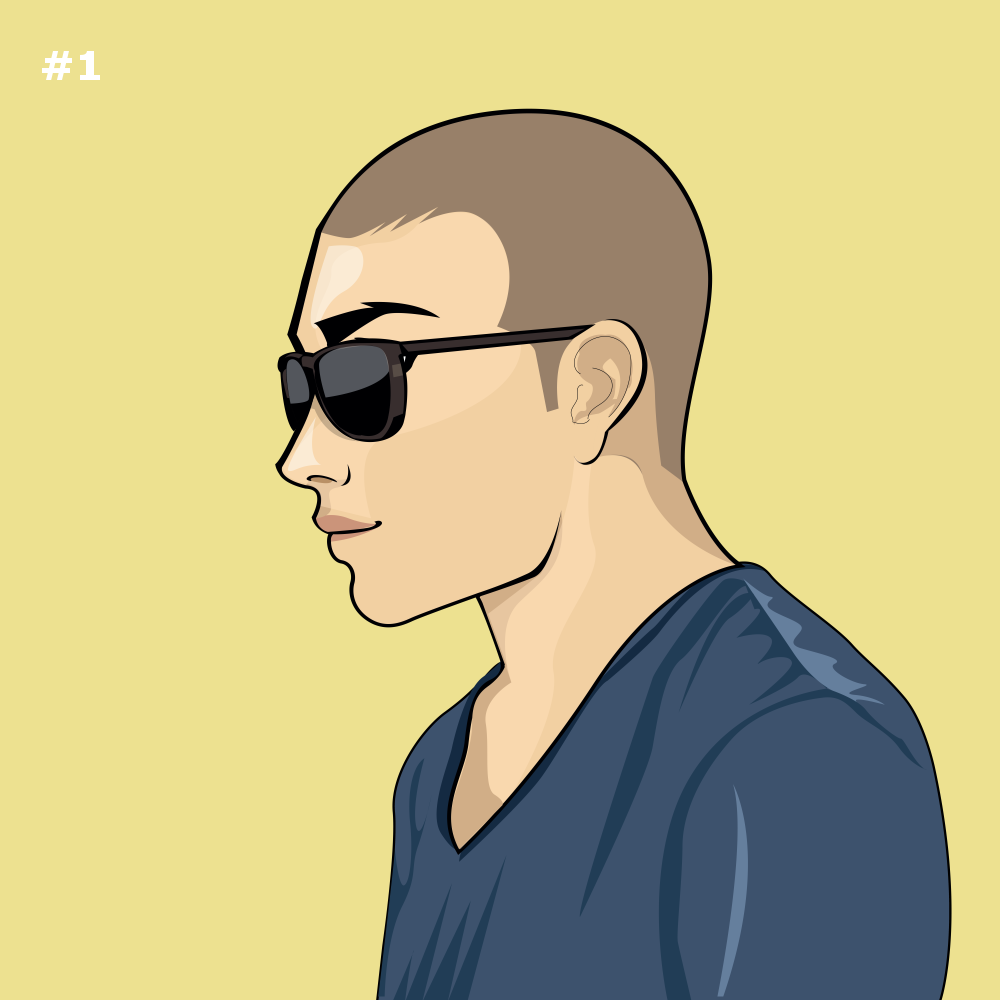
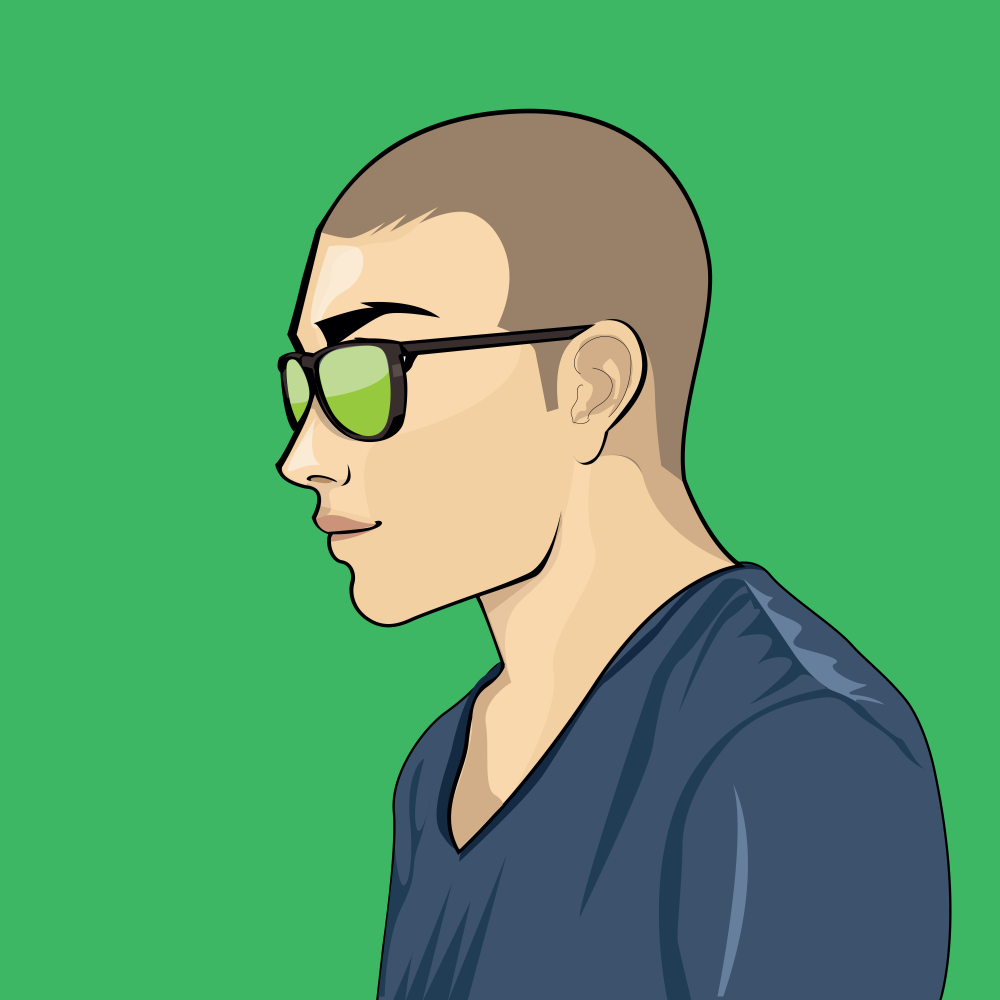
Hash remove done

diff --git a/index.js b/index.js
@@ -27,7 +27,7 @@ const saveImage = (_editionCount) => {
 
 const signImage = (_sig) => {
   ctx.fillStyle = "#ffffff";
-  ctx.font = "bold 30pt Verdana";
+  ctx.font = "bold 0pt Verdana";
   ctx.textBaseline = "top";
   ctx.textAlign = "left";
   ctx.fillText(_sig, 40, 40);
@@ -160,7 +160,7 @@ const startCreating = async () => {
         elementArray.forEach((element) => {
           drawElement(element);
         });
-        signImage(`#${editionCount}`);
+        // signImage(`#${editionCount}`);
         saveImage(editionCount);
         addMetadata(newDna, editionCount);
         saveMetaDataSingleFile(editionCount);
